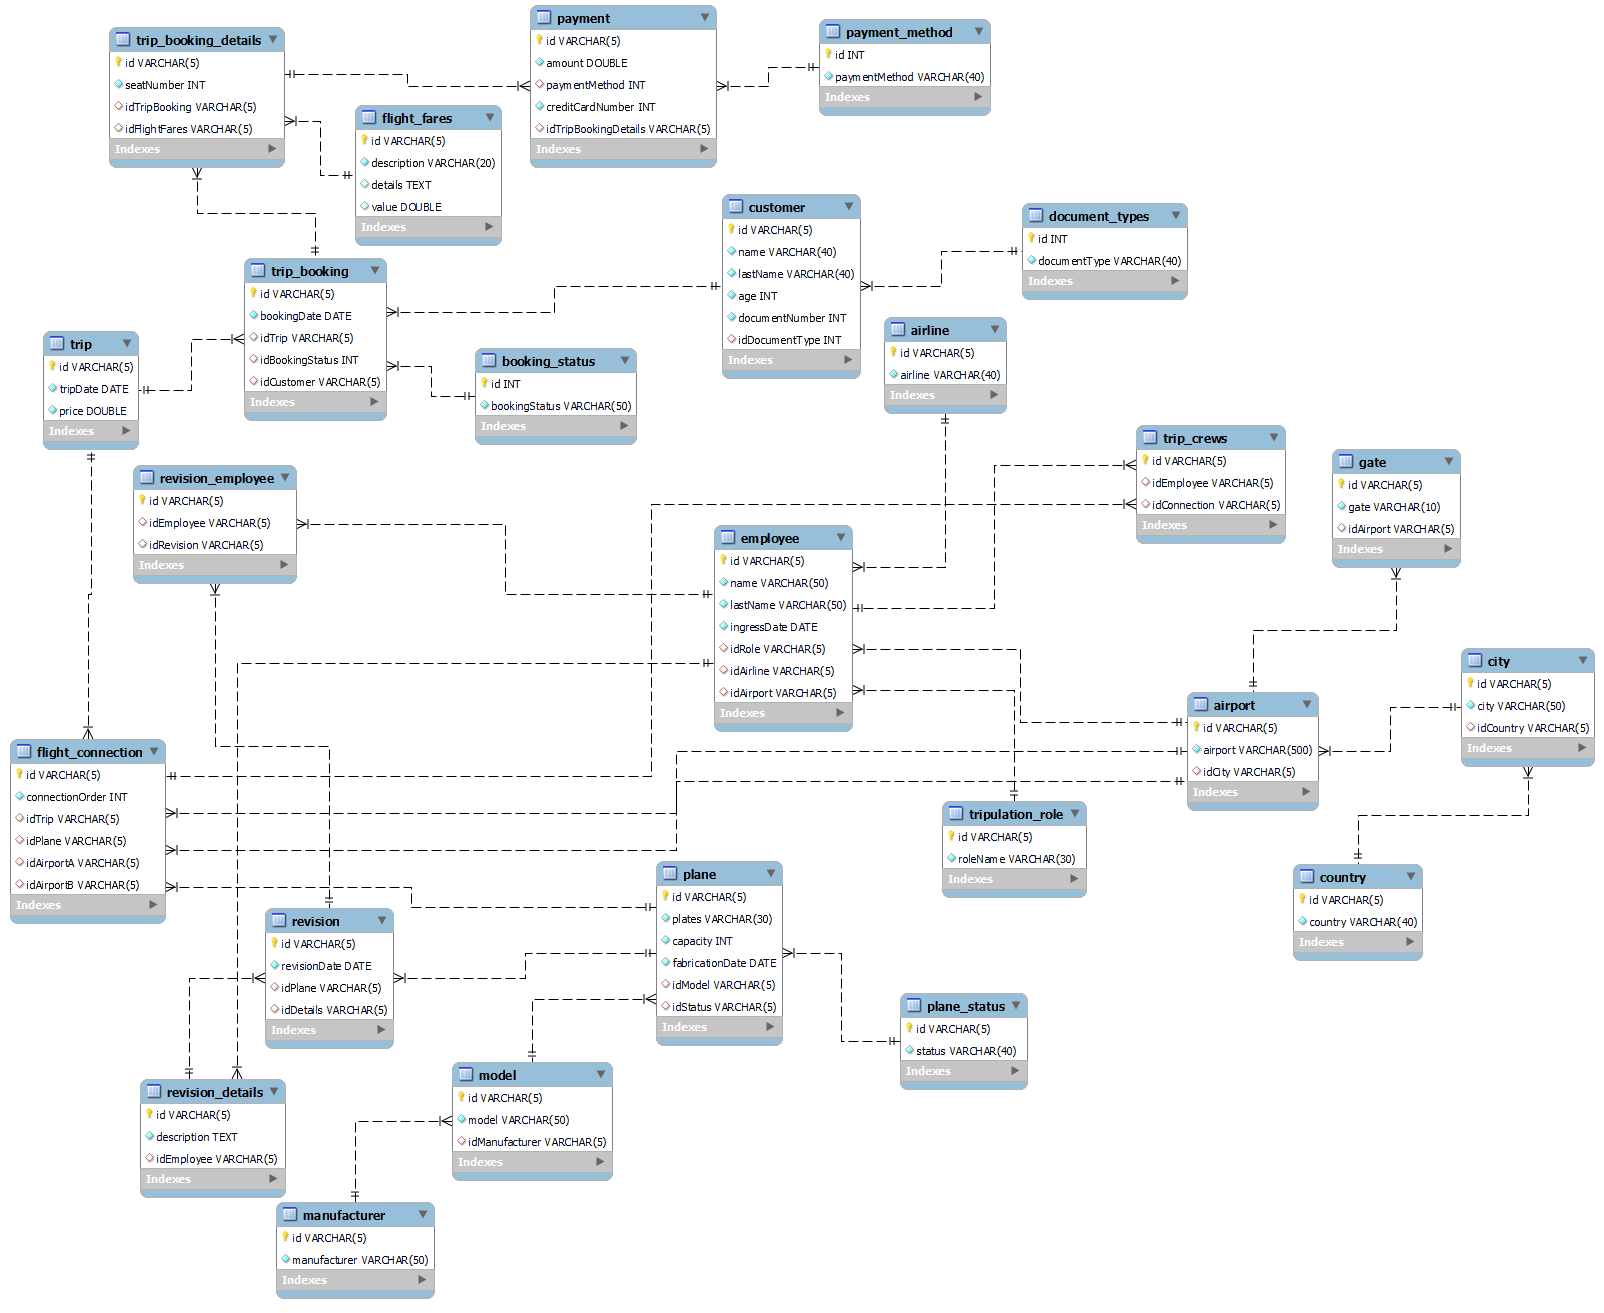
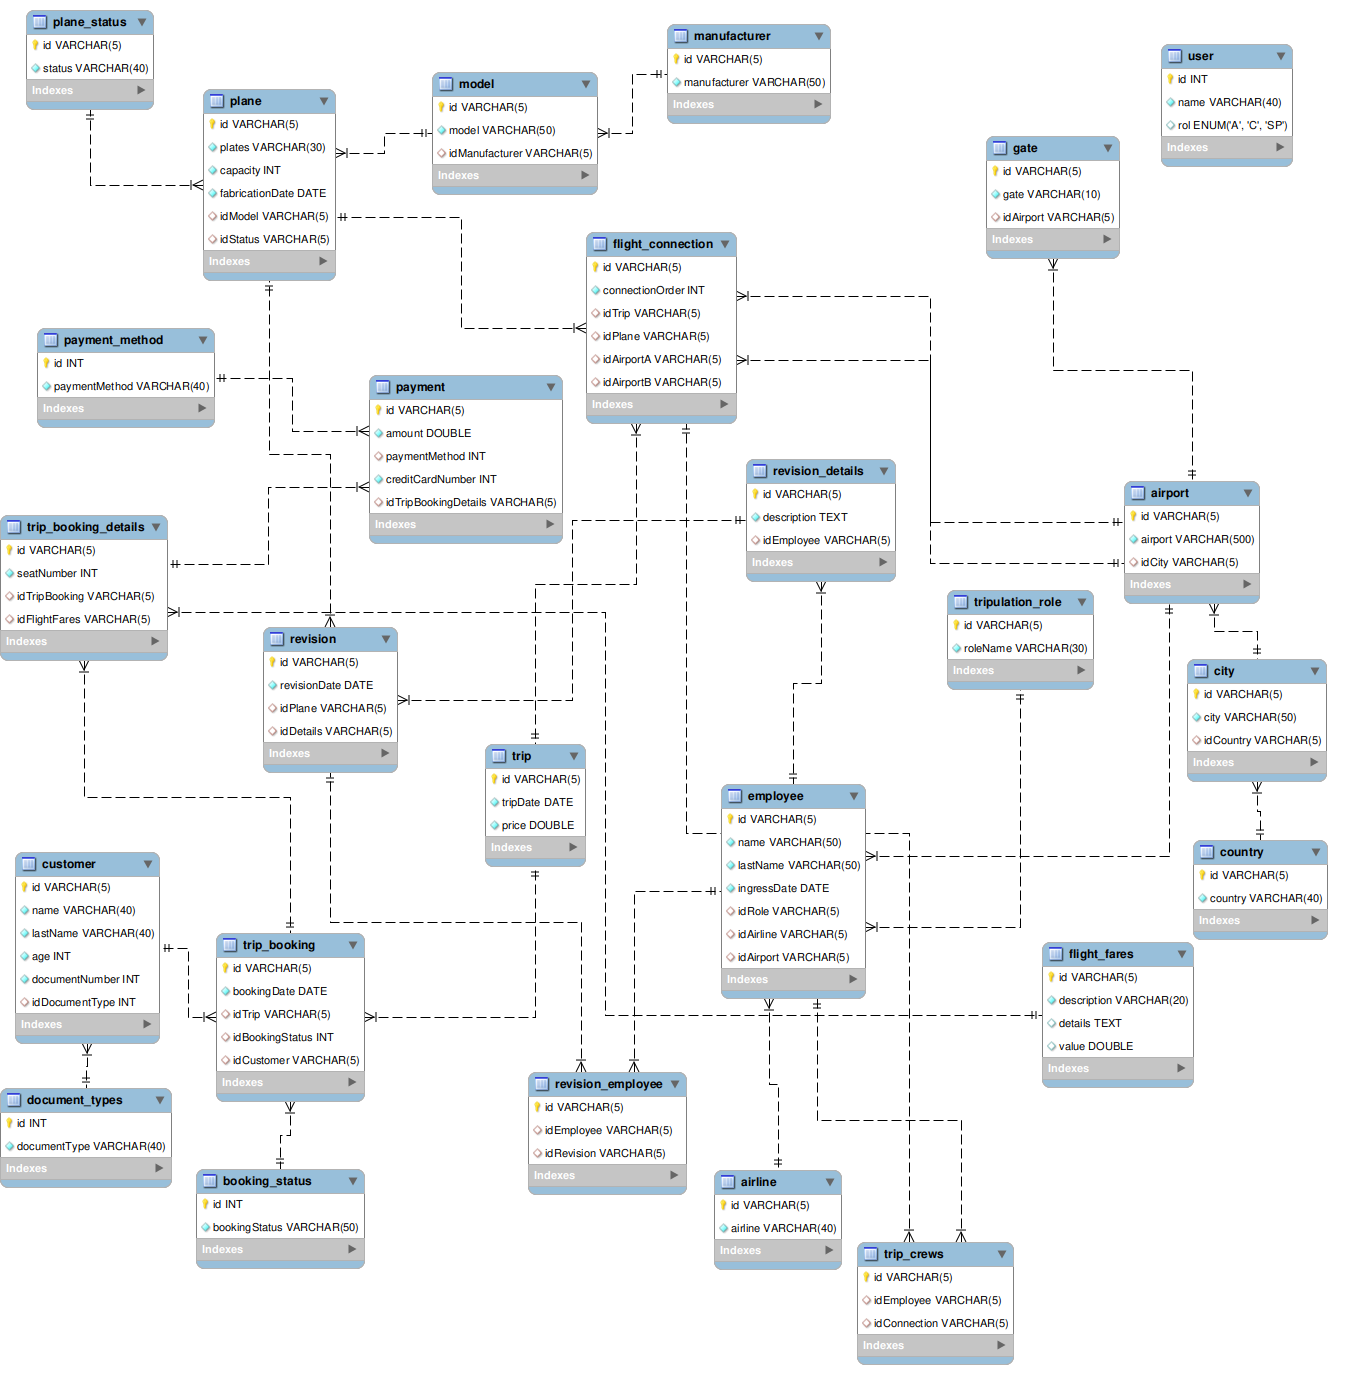
modificados:     Database/AirportDiagram.png 	nuevos archivos: airportagency/src/main/java/com/airportagency/entities/airline/domain/entity/Airline.java 	nuevos archivos: airportagency/src/main/java/com/airportagency/entities/airline/domain/service/AirlineService.java 	nuevos archivos: airportagency

Changed region(s): [[0.0, 0.0, 0.9978, 0.9992]]

diff --git a/airportagency/src/main/java/com/airportagency/entities/airline/domain/entity/Airline.java b/airportagency/src/main/java/com/airportagency/entities/airline/domain/entity/Airline.java
@@ -1,0 +1,35 @@
+package com.airportagency.entities.airline.domain.entity;
+
+public class Airline {
+    private String id;
+    private String name;
+
+    public Airline(){
+        
+    }
+
+    public Airline(String id, String name) {
+        this.id = id;
+        this.name = name;
+    }
+    public Airline(String name){
+        this.name = name;
+    }
+
+    // GETTERS Y SETTERS
+    public String getId() {
+        return id;
+    }
+
+    public void setId(String id) {
+        this.id = id;
+    }
+
+    public String getName() {
+        return name;
+    }
+
+    public void setName(String name) {
+        this.name = name;
+    }
+}

diff --git a/airportagency/src/main/java/com/airportagency/entities/airline/domain/service/AirlineService.java b/airportagency/src/main/java/com/airportagency/entities/airline/domain/service/AirlineService.java
@@ -1,0 +1,14 @@
+package com.airportagency.entities.airline.domain.service;
+
+import java.util.List;
+import java.util.Optional;
+
+import com.airportagency.entities.airline.domain.entity.Airline;
+
+public interface AirlineService {
+    void save(Airline airline);
+    void update(Airline airline);
+    Optional<Airline> findById(String id);
+    void delete(String id);
+    List<Airline> findAll();
+}
